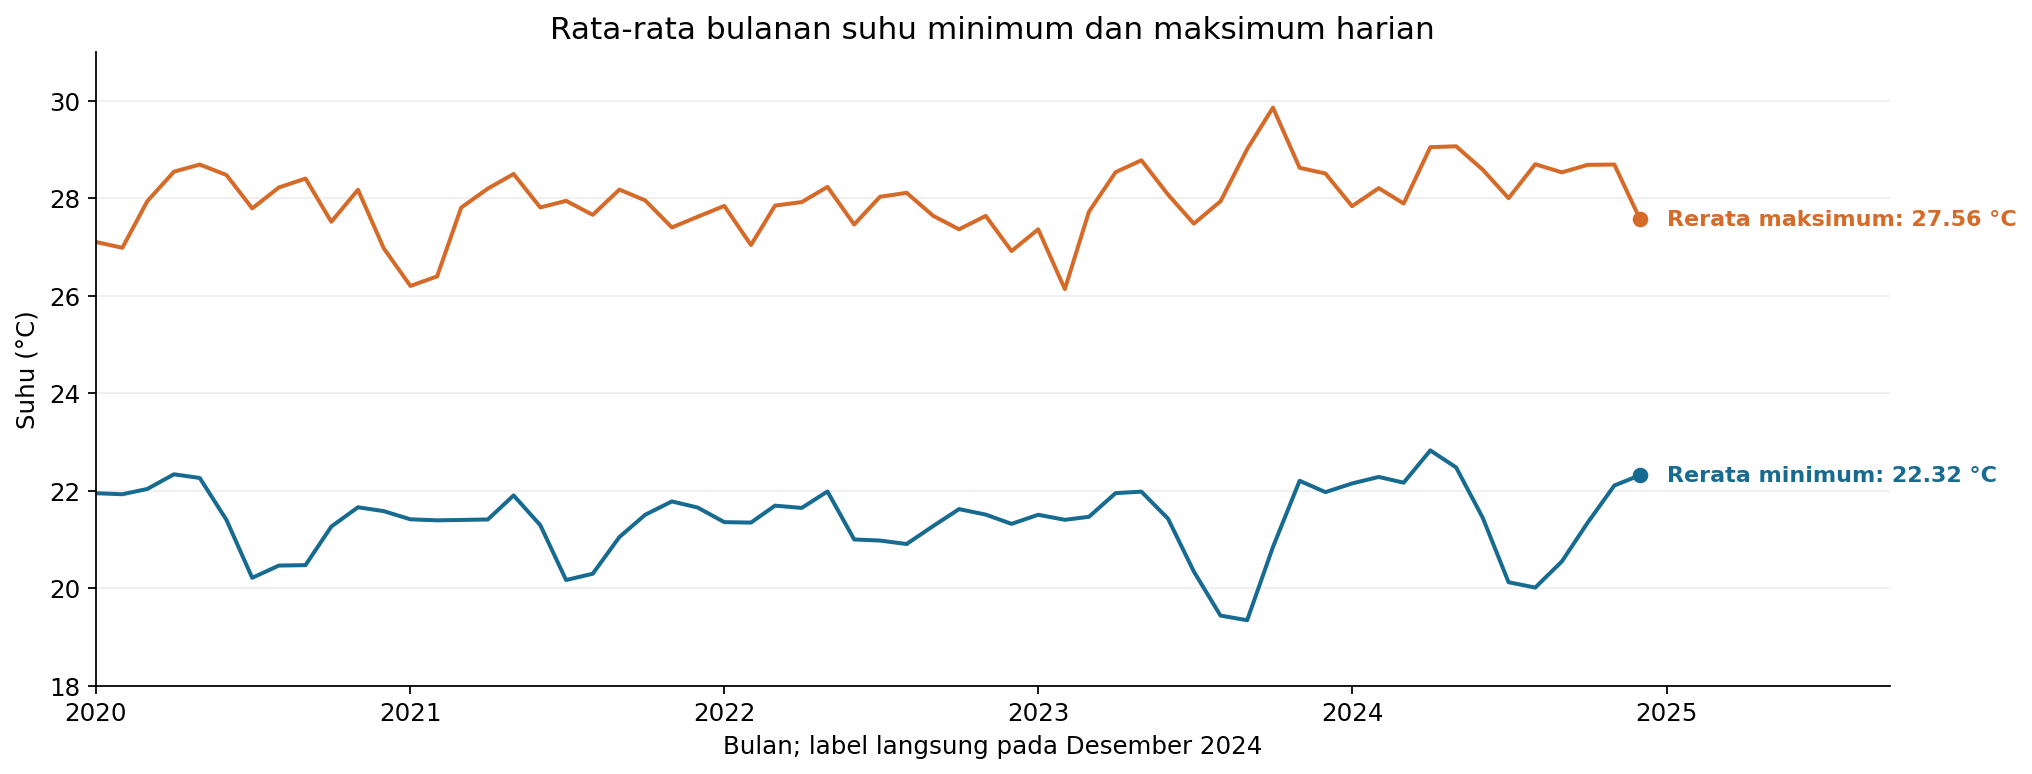
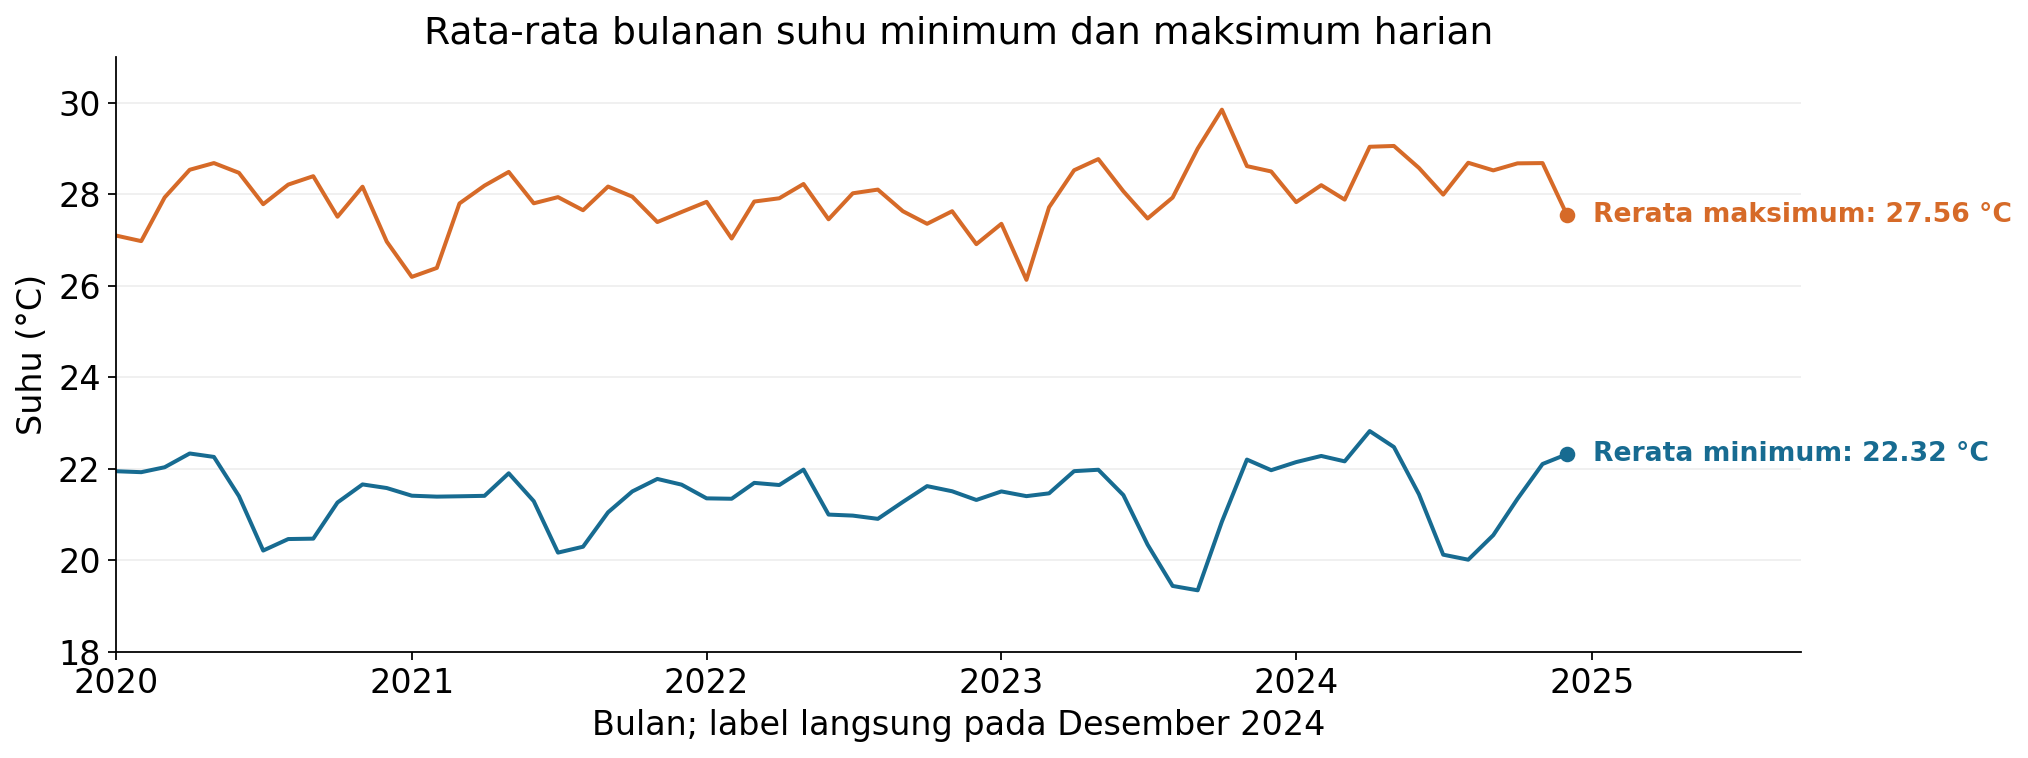
chore(auto-sync): continuous project and state update [2026-10-23 16:19 WIB]

diff --git a/data/projects/fbc5d5d9/main.tex b/data/projects/fbc5d5d9/main.tex
@@ -191,6 +191,8 @@ Bobot satu hari adalah $1/7$ pada MA7 dan $1/30$ pada MA30. Jendela lebih panjan
 \subsection{Rancangan visual dan alur reproduksi}
 Ketujuh gambar mempunyai tugas yang berbeda. Garis harian mempertahankan urutan dan ekstrem suhu. Area bulanan menekankan jumlah presipitasi dengan baseline nol. Dua garis suhu minimum--maksimum memakai satu satuan dan label langsung di ujung agar identitas seri tidak bergantung pada pencocokan legenda. Seasonal plot menempatkan Januari--Desember pada sumbu yang sama untuk membandingkan tahun. Grafik MA mempertahankan data asli dan menambahkan pembesaran 2024. Heatmap memudahkan pencarian sel tahun--bulan, sedangkan grafik IQR menunjukkan posisi hari yang ditandai pada rekaman lengkap.
 
+Untuk keterbacaan laporan, ketujuh grafik diekspor ulang dengan ukuran huruf yang diperbesar. Perubahan ini hanya pada penyajian; data, agregasi, jendela rolling, dan penanda IQR tetap sama. Notebook unggahan dan kedua salinan verifikasi tanpa perubahan dipertahankan.
+
 Suhu dan presipitasi tidak digabung dengan sumbu ganda. Skala dan maknanya berbeda, sehingga penggabungan mudah memberi kesan hubungan yang bergantung pada pilihan batas sumbu. Sumbu suhu garis harian tidak dimulai dari nol karena yang dibaca adalah perubahan pada rentang sempit; batasnya dinyatakan terang. Area dan heatmap presipitasi menggunakan nol sebagai acuan. Label bulat heatmap hanya untuk tampilan; nilai analisis tetap satu desimal.
 
 Arsip terbaru diinspeksi terhadap jalur absolut, traversal, dan symlink sebelum diekstrak. Entri \texttt{\_\_MACOSX} dan AppleDouble \texttt{.\_} dilewati. Seluruh sel notebook dibaca dan kode ditinjau: operasi yang ditemukan berupa impor pustaka, pembacaan data lokal, penghitungan, assertion, dan penyimpanan PNG di direktori kerja. Skrip bantuan yang disertakan pengguna tidak dijalankan begitu saja. Dua salinan eksekusi ditempatkan pada direktori terpisah agar notebook asli dan gambar arsip tetap utuh.
